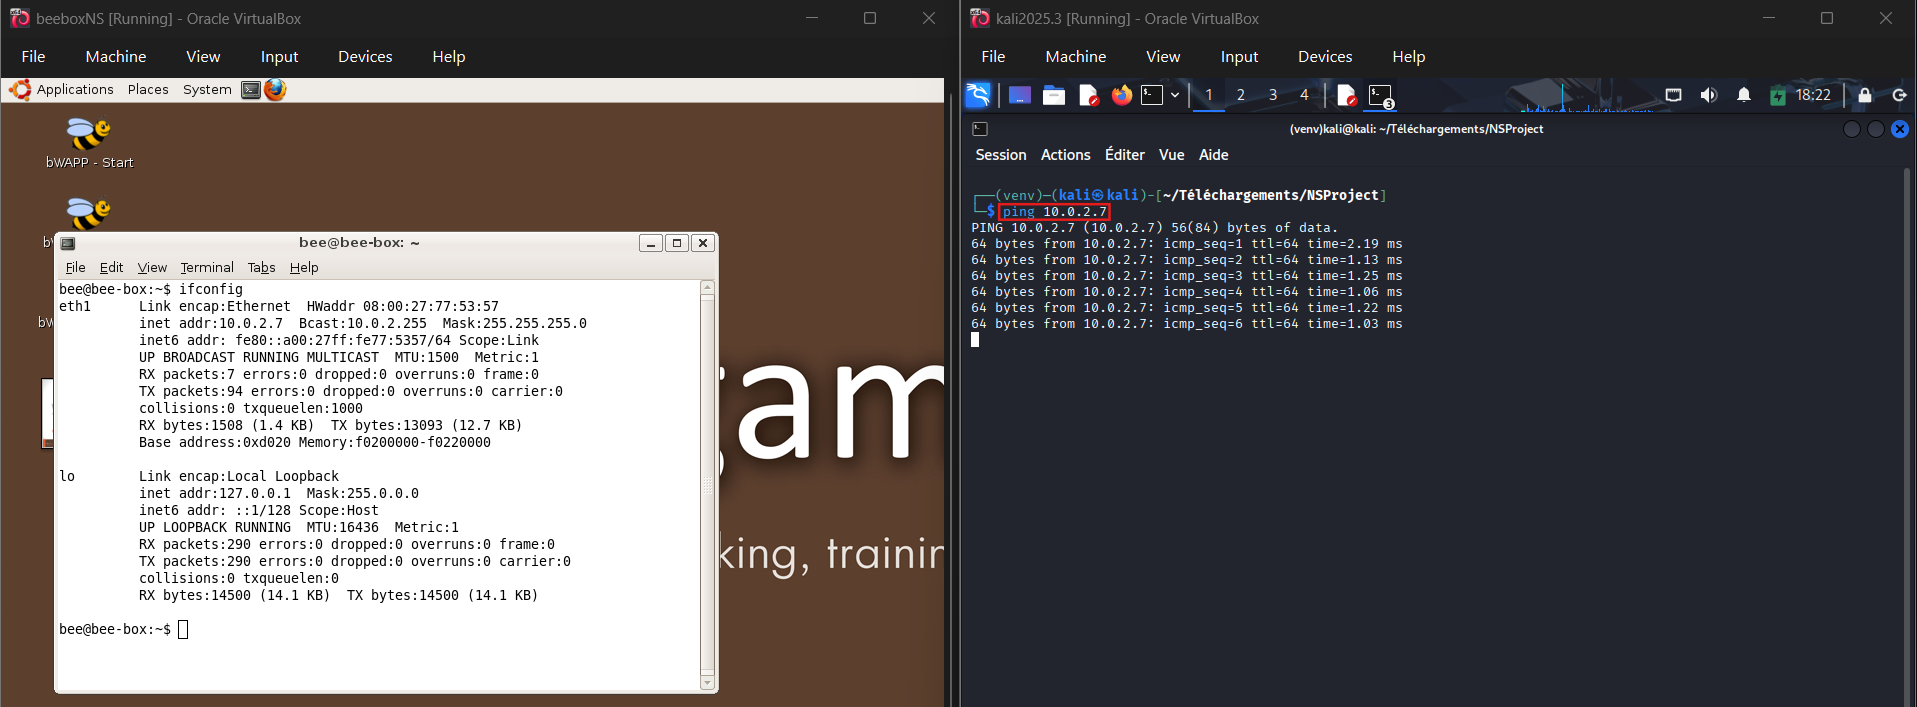
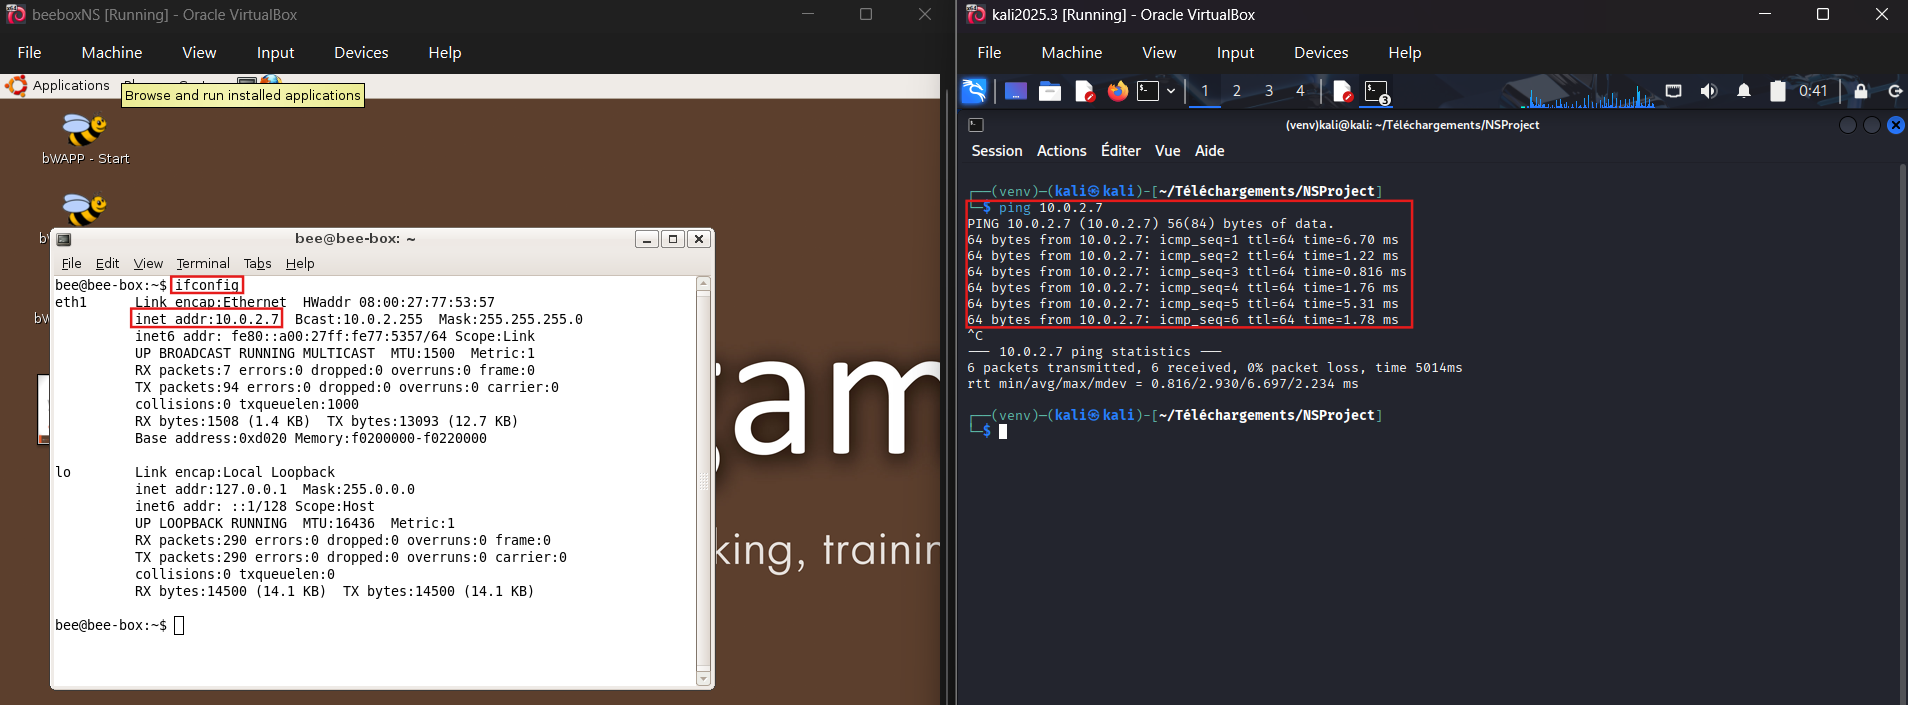
adding images + technical_report modification

diff --git a/architecture/technical_report.md b/architecture/technical_report.md
@@ -104,10 +104,10 @@ We use a **VirtualBox NAT Network** so that the VMs can communicate with each ot
 1. Open VirtualBox.  
 2. Go to **Tools → NAT Networks**.  
 3. Click **Create** and configure:
-   - A name (e.g. `LLM-Nmap-NAT`),
+   - A name (e.g. `NSProject`),
    - An IP range (e.g. `10.0.2.0/24`).
 
-![Create NAT Network](src/CreateNAT.png)
+![Create NAT Network](src/Setup/CreateNAT.png)
 
 #### 3.2.2 Attaching VMs to the NAT Network
 
@@ -115,26 +115,30 @@ For each VM (Kali, Ubuntu Server, BeeBox):
 
 1. Open **Settings → Network**.  
 2. Set **Attached to** = `NAT Network`.  
-3. Select the NAT network created earlier (`LLM-Nmap-NAT`).
+3. Select the NAT network created earlier (`NSProject`).
 
-![Add VMs to NAT Network](src/AddVMsToNAT.png)
+![Add VMs to NAT Network](src/Setup/AddVMsToNAT.png)
 
 #### 3.2.3 Verifying Connectivity
 
 On each VM, retrieve its IP address:
 
 ```bash
-ifconfig    # or: ip addr
+ifconfig
 ```
 
 From the Kali VM, test reachability:
 
 ```bash
 ping 10.0.2.15       # Ubuntu Server in our example
-ping <beebox-ip>     # will be used in Scenario 3
 ```
 
-![VM Ping to VM](src/VMpingToVM.png)
+![Kali Ping to Ubuntu Serveur](<src/Ubuntu Server/US ping Ubuntu Server.png>)
+
+```bash
+ping 10.0.2.7        # Beebox in our example
+```
+![Kali Ping to Beebox](<src/Beebox/2 ping beebox.png>)
 
 If the pings succeed, the VMs are on the same network and reachable.
 
@@ -155,22 +159,27 @@ If the pings succeed, the VMs are on the same network and reachable.
 ---
 
 ## 4. LLM–Nmap Setup on Kali
+*NOTE: For the following part, we will only use the Ubuntu Server as a target, but it also works for the Beebox VM or any VM/real computer you use.*
 
 This section describes the concrete steps to configure the LLM–Nmap framework on the Kali VM.
 
 ### 4.1 Installing `llm`
 
-On Kali:
+On Kali, create a virtual environment and install *llm*:
 
 ```bash
-pip install llm
+python3 -m venv <name of your venv> # create a virtual environment
+
+source <name of your venv>/bin/activate  # activate the virtual environment
+
+pip install llm # install llm
 ```
 
-![Set Up LLM](src/SetUpLLM.png)
+![Set Up LLM](src/Setup/SetUpLLM.png)
 
 ### 4.2 Configuring Gemini
 
-We use Google Gemini as the LLM provider.
+With *llm* we can use a lot of different llms such as ChatGPT or Gemini. Wed decided to use Google Gemini as the LLM provider because the API is available for free.
 
 1. Install the Gemini plugin:
 
@@ -178,7 +187,7 @@ We use Google Gemini as the LLM provider.
    llm install llm-gemini
    ```
 
-2. Set the Gemini API key (obtained from Google AI Studio):
+2. Set the Gemini API key (obtained from [Google AI Studio](https://aistudio.google.com/)):
 
    ```bash
    llm keys set gemini
@@ -190,12 +199,14 @@ We use Google Gemini as the LLM provider.
    llm -m gemini-2.0-flash "Hello"
    ```
 
-![Setup Gemini – Test 1](src/SetupGemini1.png)
-![Setup Gemini – Test 2](src/SetupGemini2.png)
+![Setup Gemini – Test 1](src/Setup/SetupGemini1.png)
+![Setup Gemini – Test 2](src/Setup/SetupGemini2.png)
 
 If a valid text response is returned, the LLM configuration is working.
 
 ### 4.3 Adding `llm-tools-nmap.py`
+
+To perform a request to Nmap through an LLM, we need to add the Python tool *llm-tools-nmap.py*:
 
 1. Download `llm-tools-nmap.py` from the reference repository:  
    <https://github.com/peter-hackertarget/llm-tools-nmap>
@@ -207,9 +218,10 @@ If a valid text response is returned, the LLM configuration is working.
        "Scan my local network to find live hosts with ping"
    ```
 
-![LLM–Nmap – Scan network with ping](<src/LLM-Nmap - Scan network with ping.png>)
+![LLM–Nmap – Scan network with ping](<src/Ubuntu Server/US LLM-Nmap - Scan network with ping.png>)
 
 In our setup, the **Ubuntu Server** VM is detected by the tool.
+*NOTE: The Beebox isn't detected because the VM was shut down when the screenshot was taken.*
 
 Then, we perform a more specific scan of the Ubuntu Server at IP **10.0.2.15**:
 
@@ -218,7 +230,7 @@ llm -m gemini-2.0-flash --functions llm-tools-nmap.py \
     "Make a quick scan of 10.0.2.15"
 ```
 
-![LLM–Nmap – Quick scan, no open ports](<src/LLM-Nmap - Quick scan no open ports.png>)
+![LLM–Nmap – Quick scan, no open ports](<src/Ubuntu Server/US LLM-Nmap - Quick scan no open ports.png>)
 
 At this stage, no open ports are found. This is expected, because we have not yet enabled any service on the Ubuntu Server.
 
@@ -232,6 +244,8 @@ We implemented and tested three main scenarios to demonstrate the behaviour of L
 
 #### 5.1.1 Opening SSH on Ubuntu Server
 
+We previously saw that no ports were open. Let's open a port (e.g. SSH) to see if it will be detected by llm-nmap.
+
 On the Ubuntu Server VM (10.0.2.15):
 
 ```bash
@@ -241,7 +255,7 @@ sudo systemctl enable --now ssh
 systemctl status ssh
 ```
 
-![Ubuntu Server – Open SSH port](<src/UbuntuServer Open SSH port.png>)
+![Ubuntu Server – Open SSH port](<src/Ubuntu Server/UbuntuServer Open SSH port.png>)
 
 After this, port **22/tcp** should be open on 10.0.2.15.
 
@@ -254,7 +268,7 @@ llm -m gemini-2.0-flash --functions llm-tools-nmap.py \
     "Make a quick scan of 10.0.2.15"
 ```
 
-![LLM–Nmap – Quick scan, SSH port open](<src/LLM-Nmap - Quick scan ssh port open.png>)
+![LLM–Nmap – Quick scan, SSH port open](<src/Ubuntu Server/US LLM-Nmap - Quick scan ssh port open.png>)
 
 Port **22/tcp** is now detected as open.
 
@@ -263,10 +277,10 @@ Port **22/tcp** is now detected as open.
 To validate the result, we run a manual Nmap scan from Kali:
 
 ```bash
-nmap -sV 10.0.2.15
+nmap 10.0.2.15
 ```
 
-![LLM–Nmap vs Nmap – Quick scan, SSH port open](<src/LLM-Nmap VS Nmap - Quick scan ssh port open.png>)
+![LLM–Nmap vs Nmap – Quick scan, SSH port open](<src/Ubuntu Server/US LLM-Nmap VS Nmap - Quick scan ssh port open.png>)
 
 The manual output confirms that port 22 is open and identifies the SSH service.  
 This verifies that:
@@ -276,7 +290,7 @@ This verifies that:
 
 ---
 
-### 5.2 Scenario 2 – Kali VM Scanning a Physical Mac Host
+### 5.2 Scenario 2 – Kali VM Scanning a Physical Mac Host (10.184.43.104)
 
 In this scenario, Kali runs as a VM on one laptop, and the target is a Mac laptop on the same Wi-Fi network.
 
@@ -287,10 +301,10 @@ On the Mac, we identify:
 - The IP address (shown in the screenshot).
 - The open ports (e.g. enabled services).
 
-![Mac Open Ports](src/mac_open_ports_screenshot.png)
+![Mac Open Ports](src/Mac/mac_open_ports_screenshot.png)
 *Figure: Screenshot showing the open ports on the Mac laptop*
 
-![Mac IP Address](src/mac_ip_address_screenshot.png)
+![Mac IP Address](src/Mac/mac_ip_address_screenshot.png)
 *Figure: Screenshot showing the IP address of the Mac laptop*
 
 #### 5.2.2 Nmap and LLM–Nmap Scans from Kali
@@ -300,8 +314,10 @@ From the Kali VM, we run:
 Manual scan:
 
 ```bash
-nmap -sV <mac-ip>
+nmap -A 10.184.43.104
 ```
+![Nmap Scan on Mac Target](src/Mac/NmapOnMac.png)
+*Traditional Nmap scan results showing detected ports and services on the Mac*
 
 LLM-driven scan:
 
@@ -310,17 +326,8 @@ llm -m gemini-2.0-flash --functions llm-tools-nmap.py \
     "Scan <mac-ip> and show me which ports are open and what services are running"
 ```
 
-*(Placeholders – to be filled with your screenshots for this scenario)*
-
-```markdown
-![Nmap Scan on Mac Target](src/mac_nmap_scan.png)
-*Traditional Nmap scan results showing detected ports and services on the Mac*
-
-![LLM–Nmap Scan on Mac Target](src/mac_llm_nmap_scan.png)
+![LLM–Nmap Scan on Mac Target](src/Mac/LLM-NmapOnMac.png)
 *LLM–Nmap scan results showing the comparison between traditional Nmap and AI-powered scanning*
-```
-
-You can rename `mac_nmap_scan.png` and `mac_llm_nmap_scan.png` to the actual filenames you use.
 
 #### 5.2.3 Observations
 
@@ -330,7 +337,7 @@ You can rename `mac_nmap_scan.png` and `mac_llm_nmap_scan.png` to the actual fil
 
 ---
 
-### 5.3 Scenario 3 – Kali VM Scanning BeeBox (Vulnerable Target)
+### 5.3 Scenario 3 – Kali VM Scanning BeeBox (Vulnerable Target) (10.0.2.7)
 
 BeeBox is a deliberately vulnerable VM with many open ports and insecure applications.
 
@@ -339,53 +346,66 @@ BeeBox is a deliberately vulnerable VM with many open ports and insecure applica
 From Kali:
 
 ```bash
-llm -m gemini-2.0-flash --functions llm-tools-nmap.py \
-    "Scan the NAT network and list all live hosts"
+llm -m gemini-2.5-flash --functions llm-tools-nmap.py \
+    "Scan my local network to find live hosts with ping"
 ```
 
 BeeBox should appear as one of the live hosts in the output.
 
-*(Placeholder for BeeBox host discovery screenshot):*
-
-```markdown
-![BeeBox detected in host discovery](src/beebox_host_discovery.png)
-```
+![BeeBox detected in host discovery](<src/Beebox/beebox scan local network.png>)
 
 #### 5.3.2 Service Enumeration on BeeBox
 
-Next, we perform a more detailed scan:
+Next, let's start with a basic scan using llm :
 
 ```bash
-llm -m gemini-2.0-flash --functions llm-tools-nmap.py \
-    "Run a detailed service scan on <beebox-ip> and summarize the open ports and services"
+llm -m gemini-2.5-flash --functions llm-tools-nmap.py "Make a quick scan of 10.0.2.7"
 ```
+![Beebox llm-nmap quick scan](<src/Beebox/3 llm-nmap beebox quick scan.png>)
 
-*(Placeholder for BeeBox LLM–Nmap scan screenshot):*
-
-```markdown
-![LLM–Nmap detailed scan on BeeBox](src/beebox_llm_scan.png)
-```
+The scan found 13 different open ports.
 
 #### 5.3.3 Comparison with Manual Nmap
 
-Finally, we run a manual scan:
+Let's compare with a manual scan:
 
 ```bash
-nmap -sV <beebox-ip>
+nmap 10.0.2.7
 ```
+![Beebox nmap](<src/Beebox/4 nmap beebox.png>)
 
-*(Placeholder for manual BeeBox Nmap scan screenshot):*
+The scan through Nmap reveals that 17 ports were open.
 
-```markdown
-![Manual Nmap scan on BeeBox](src/beebox_nmap_manual.png)
+So, with the basic instructions, llm-nmap didn't succeed in finding all open ports (4 are missing compared to Nmap).
+
+Let's try to challenge llm-nmap with a more complex prompt.
+
+#### 5.3.4 Challenging llm-nmap
+
+We saw that the basic prompt with llm-nmap wasn't enough to find every open port.
+
+Let's just make a simple change, changing "quick" to "deep" and see the results.
+
+```bash
+llm -m gemini-2.5-flash --functions llm-tools-nmap.py "Make a quick deep of 10.0.2.7"
 ```
+![Beebox deep scan llm-nmap](<src/Beebox/5 beebox deep scan complete answer.png>)
 
-We will compare:
+This request took longer to complete but provided better results (similar to using the -A option with Nmap).
+All ports that the "basic" Nmap request found were found.
 
-- The open ports and services reported by LLM–Nmap.
-- The open ports and services reported by manual Nmap.
+We can also use llm-nmap to ask it to perform tasks that Nmap can't do, such as generating reports.
+Since we are in a security context, let's combine the scanning request with security report generation :
 
-BeeBox will provide a **richer and more realistic example**, with many open services, which will help to show how the LLM can summarize and interpret more complex scan output.
+```bash
+llm -m gemini-2.5-flash --functions llm-tools-nmap.py "Make a quick scan of 10.0.2.7 and make me a report of the result. Highlight network vulnerabilities."
+```
+*NOTE: We requested a "quick" scan to get results faster than a "deep" scan.* 
+![beebox vuln report part 1](<src/Beebox/8 beebox vuln report part 1.png>)
+![beebox vuln report part 2](<src/Beebox/8 beebox vuln report part 2.png>)
+![beebox vuln report part 3](<src/Beebox/8 beebox vuln report part 3.png>)
+
+We obtained a complete cybersecurity report including the open ports found, potential risks, and recommendations to improve the security of our network.
 
 ---
 
@@ -414,27 +434,33 @@ Therefore, the implemented framework satisfies the requested workflow.
 ### 6.2 Advantages
 
 - **Ease of use:**  
-  Users can describe what they want to do instead of remembering Nmap syntax.
+  Users can describe what they want to do instead of remembering Nmap syntax (No need to know the different parameters: -A, -s, -V, -p, -n ...)
 
 - **Flexibility:**  
-  The same setup can scan virtual machines, a vulnerable lab target (BeeBox), and a physical machine (Mac), as long as they are reachable.
-
-- **Extensibility:**  
-  The approach can be extended to other tools by writing new plugins similar to `llm-tools-nmap.py`.
+  Users can use llm-nmap to perform complex tasks that Nmap cannot (such as explaining ports, generating reports, and more.)
 
 ### 6.3 Limitations
 
 - **Dependence on the LLM:**  
   The quality of the chosen scan depends on the LLM. It may sometimes select suboptimal flags or misinterpret ambiguous prompts.
+  
+- **Inconsistent for the same request:**
+  Since it uses an LLM, the quality of the responses is random and inconsistent. Examples with a short and a complex answer for the same request :
+  ![beebox deep scan complete answer](<src/Beebox/5 beebox deep scan complete answer.png>)
+  ![beebox deep scan another answer](<src/Beebox/6 beebox deep scan another answer.png>)
 
-- **Lack of strict constraints:**  
-  Without additional checks, an LLM could, in principle, try to scan large ranges or external networks. In our project, we manually restrict ourselves to the lab and authorized targets.
+- **No answer:**
+  Sometimes llm-nmap doesn't respond to a request and instead replies with a question.
+  ![LLM-Nmap - Scan network without ping](<src/Examples of issues/LLM-Nmap - Scan network without ping.png>)
 
-- **Performance and rate limits:**  
-  Using an online LLM (Gemini) introduces latency and potential API limits, though this did not significantly impact our small-scale experiments.
 
-- **Output parsing:**  
-  In this project, we rely mainly on the raw Nmap output that is embedded in the LLM response, plus a short natural-language summary. A more advanced system might parse the XML output of Nmap and present structured tables or dashboards.
+### 6.4 Difficulties encountered during the project
+
+For this project, we were limited to using an older Gemini model, as it is the only one with a free API. We were unable to test llm-nmap on newer LLMs, but we can expect their responses - especially for secondary tasks - to be more accurate and consistent.
+
+Additionally, as free API users, we were constrained by the number of requests we could make.
+
+![API limit rate](<src/Examples of issues/API limit rate.png>)
 
 ---
 
